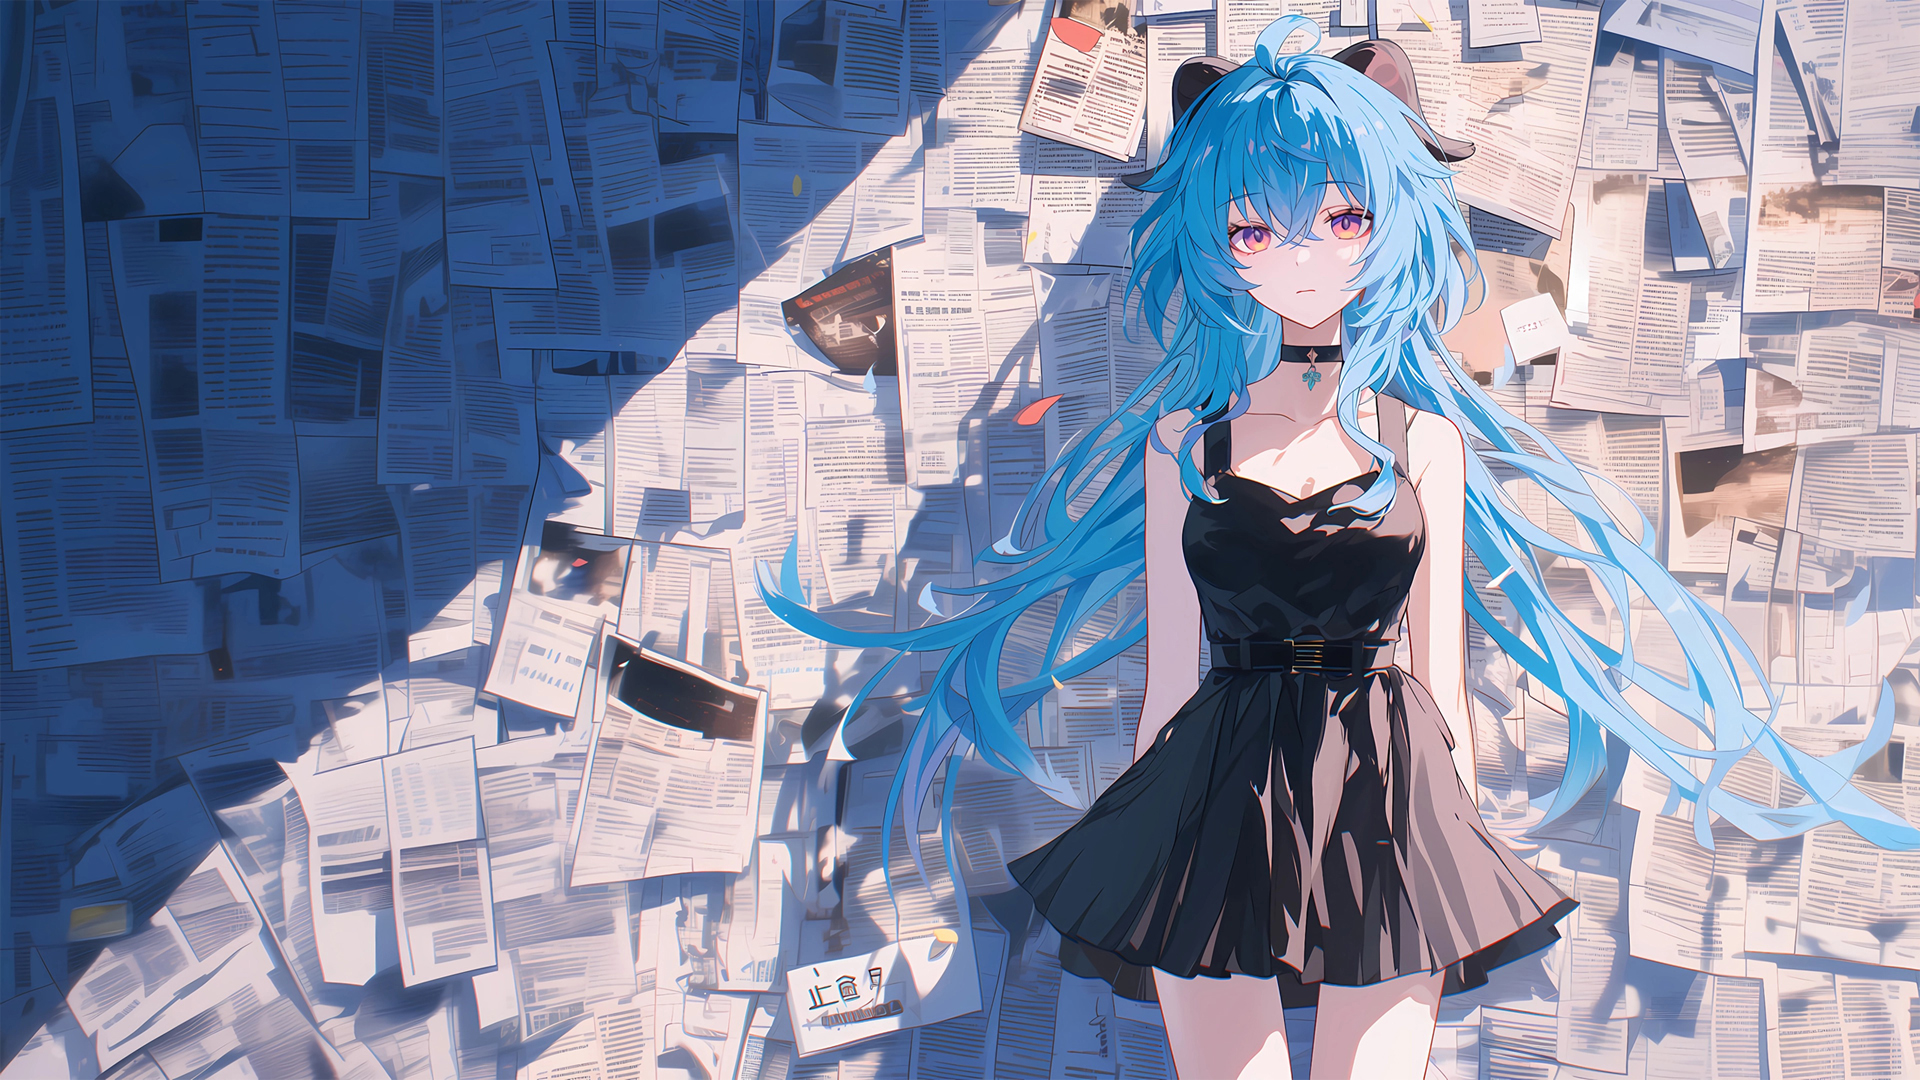
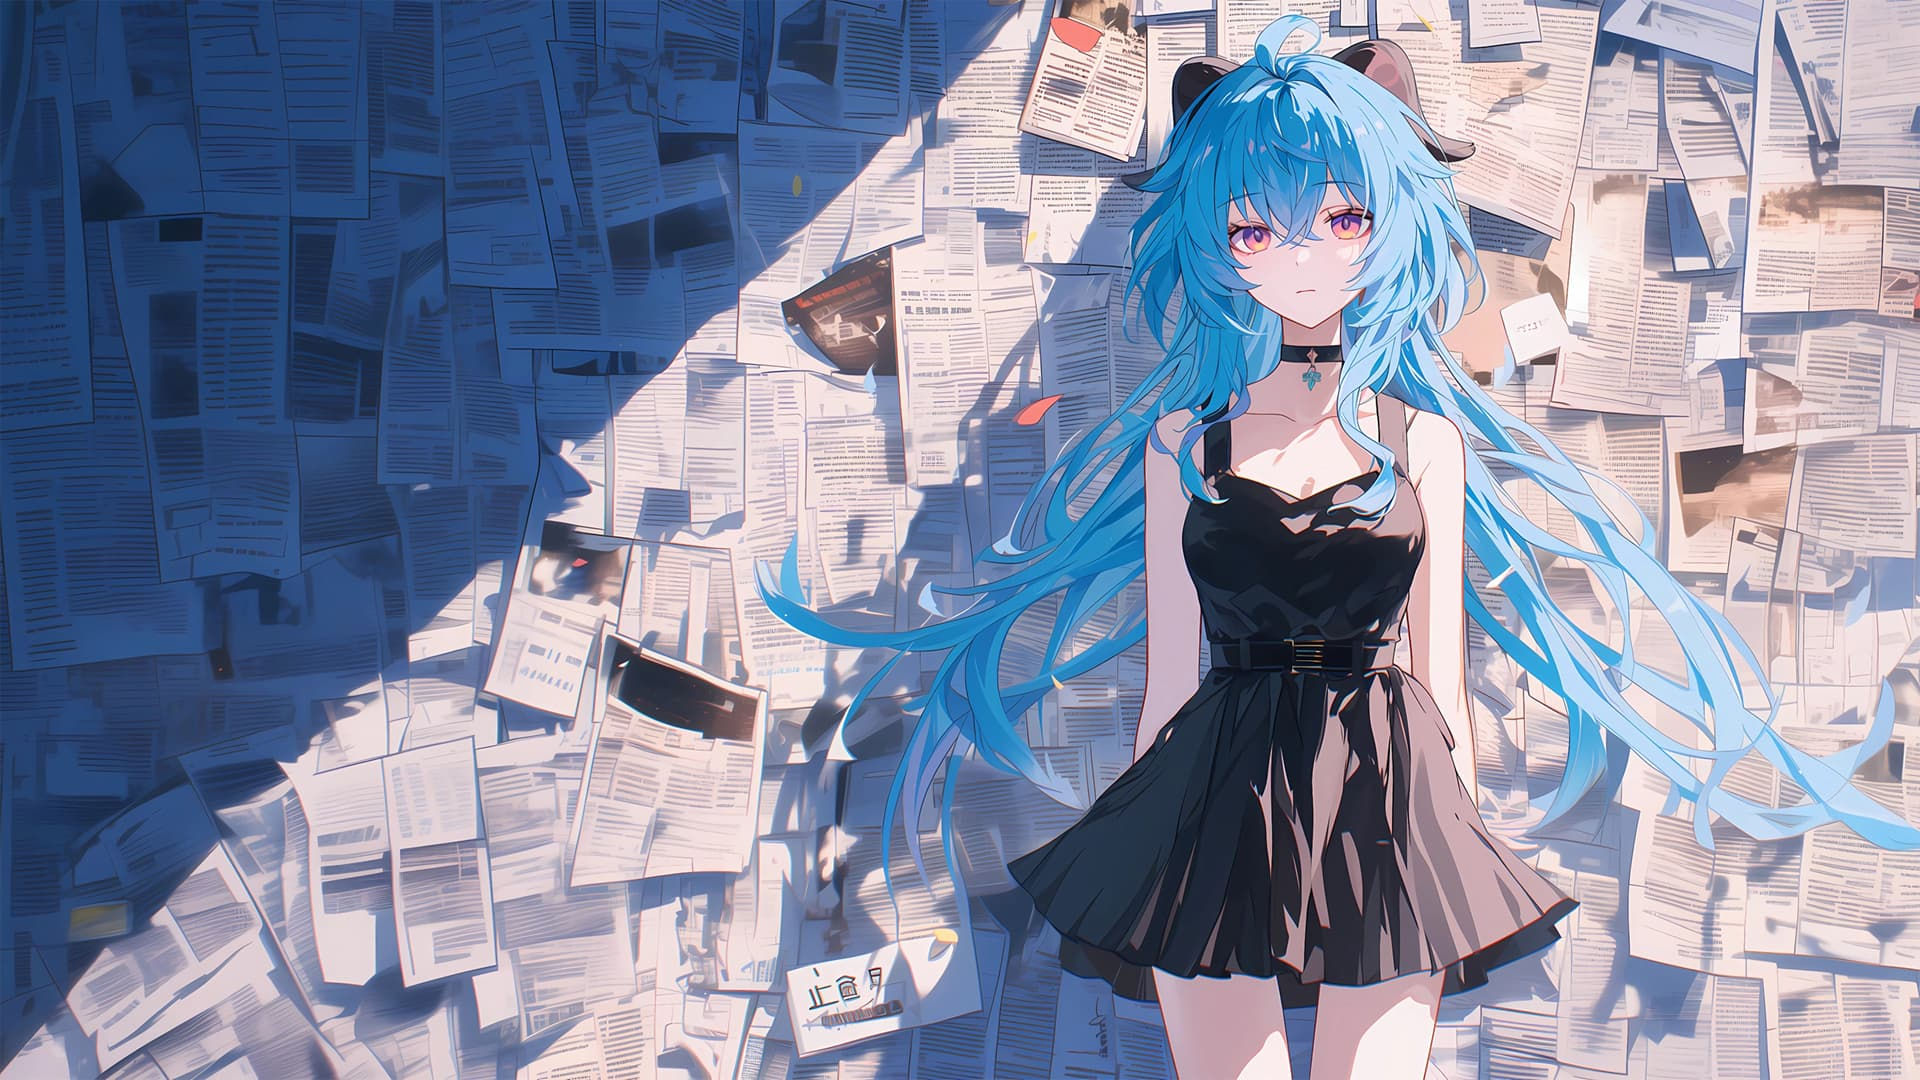
图片及样式更新和导航条目新增与修改
本次更新包括以下内容：
1. 更新了`cover4.jpg`图片，新旧图片存在差异。
2. 调整了`index.scss`中的`.page-cover img`样式，将`max-height`从25vh修改为30vh。
3. 修改了`introblog.md`和`intro.md`中的封面图片链接，分别从`cover2.jpg`和`cover3.jpg`更新为`cover6.jpg`和`cover5.jpg`。
4. 在`README.md`中新增了三个导航条目：docsmall、ProcessOn，并修改了FontAwesome的图标链接。
5. 调整了`README.md`中的部分技术框架链接，去除了“彼岸桌面”，添加了“彼岸图网”。

这些更新旨在提升博客的视觉效果和用户体验，同时扩展了导航栏的实用性，为用户提供更多的资源链接。

diff --git a/src/.vuepress/styles/index.scss b/src/.vuepress/styles/index.scss
@@ -339,7 +339,7 @@ body {
 }
 
 .page-cover img{
-    max-height: 25vh;
+    max-height: 30vh;
     object-fit: cover;
     object-position: top;
 }

diff --git a/src/quick-nav/README.md b/src/quick-nav/README.md
@@ -57,7 +57,9 @@ cover: /assets/images/cover4.jpg
     {"title": "uiverse", "url": "https://uiverse.io/", "desc": "一个开源免费的UI组件库", "icon": "/navicon/th.png"},
     {"title": "vercel", "url": "https://vercel.com/", "desc": "一个前端部署平台", "icon": "/navicon/vercel.png"},
     {"title": "iconfont", "url": "https://www.iconfont.cn/", "desc": "一个丰富的矢量图标库", "icon": "/navicon/iconfont.png"},
-    {"title": "fontawesome", "url": "https://fontawesome.com/", "desc": "一个国外的矢量图标库", "icon": "/navicon/fontawesome.png"}
+    {"title": "fontawesome", "url": "https://fontawesome.com/", "desc": "一个国外的矢量图标库", "icon": "/navicon/fontawesome.png"},
+    {"title": "docsmall", "url": "https://docsmall.com/", "desc": "免费的在线图片、PDF处理工具", "icon": "/navicon/docsmall.png"},
+    {"title": "ProcessOn", "url": "https://www.processon.com/", "desc": "一个在线流程图工具", "icon": "/navicon/processon.png"}
 ]'></NavCard>
 
 ### 技术框架
@@ -102,5 +104,5 @@ cover: /assets/images/cover4.jpg
 <NavCard arr='[
     {"title": "Pixiv", "url": "https://www.pixiv.net/", "desc": "国外知名绘画作品网站", "icon": "/navicon/pixiv.png"},
     {"title": "Pixabay", "url": "https://pixabay.com/", "desc": "一个免费的图片网站", "icon": "/navicon/pixabay.png"},
-    {"title": "彼岸桌面", "url": "https://www.netbian.com/", "desc": "一个不错的壁纸网站", "icon": "/navicon/netbian.png"}
+    {"title": "彼岸图网", "url": "http://pic.netbian.com/", "desc": "一个不错的壁纸网站", "icon": "/navicon/netbian.png"}
 ]'></NavCard>

diff --git a/src/about/blog-building/introblog.md b/src/about/blog-building/introblog.md
@@ -4,7 +4,7 @@ icon: blog
 date: 2024-07-17
 star: true
 category: 关于
-cover: /assets/images/cover2.jpg
+cover: /assets/images/cover6.jpg
 order: "1"
 excerpt: "哒哒的花园是一个基于vuepress-theme-hope主题的博客，使用Markdown语法写作，具有易于安装、可定制页面、响应式布局等特点。"
 ---

diff --git a/src/about/intro.md b/src/about/intro.md
@@ -4,7 +4,7 @@ icon: user
 date: 2024-07-17
 star: true
 category: 关于
-cover: /assets/images/cover3.jpg
+cover: /assets/images/cover5.jpg
 excerpt: "在校本科生，热爱数码、科幻和音乐，正在学习前端和后端开发技术，掌握多种编程语言和开发工具。"
 ---
 
